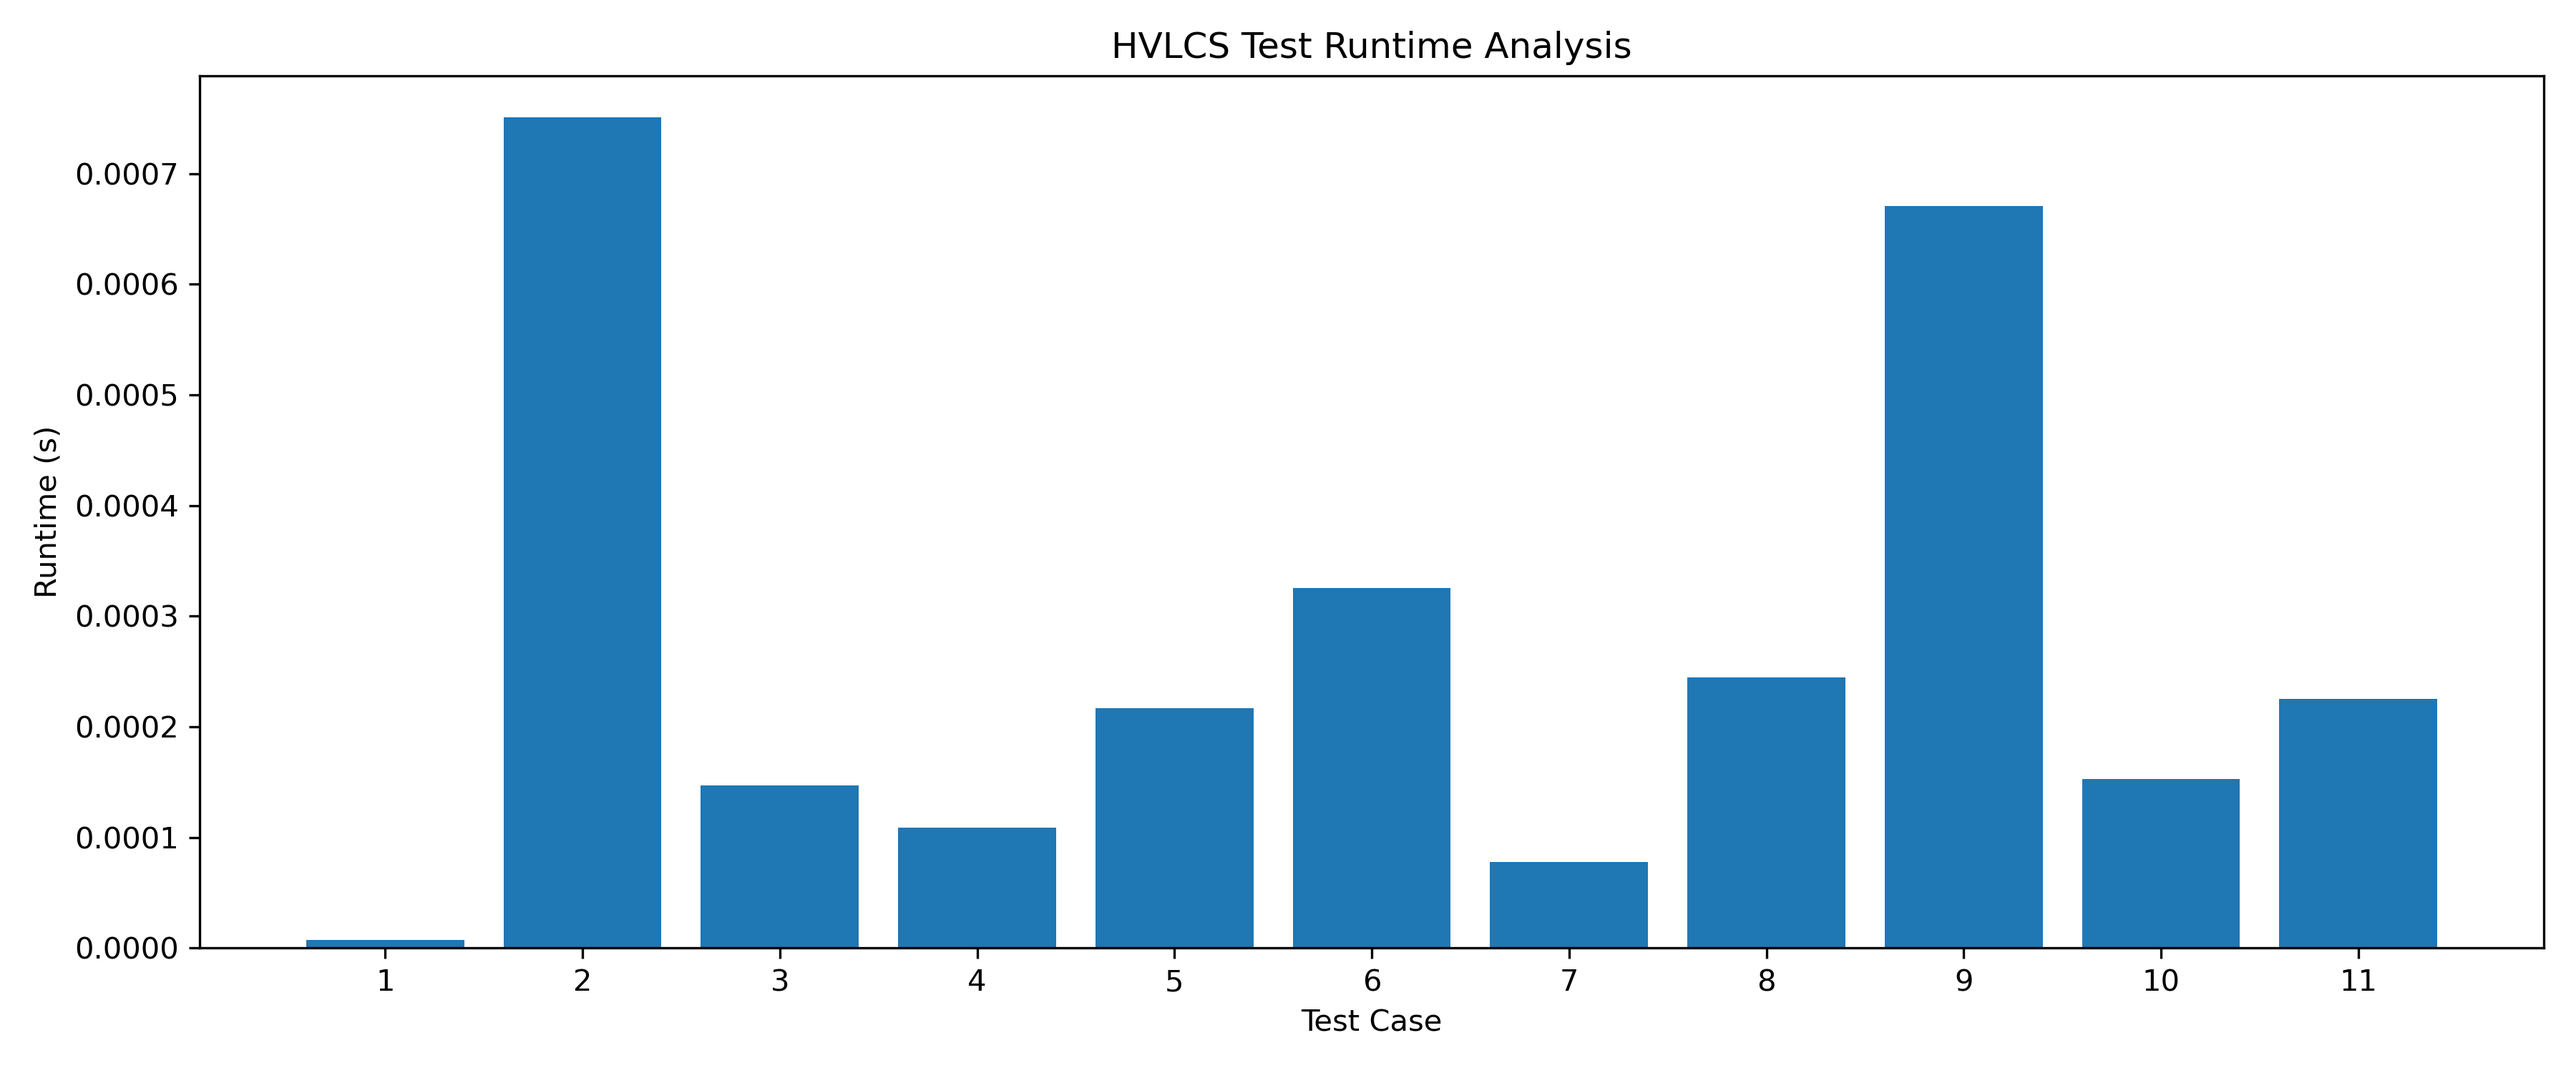
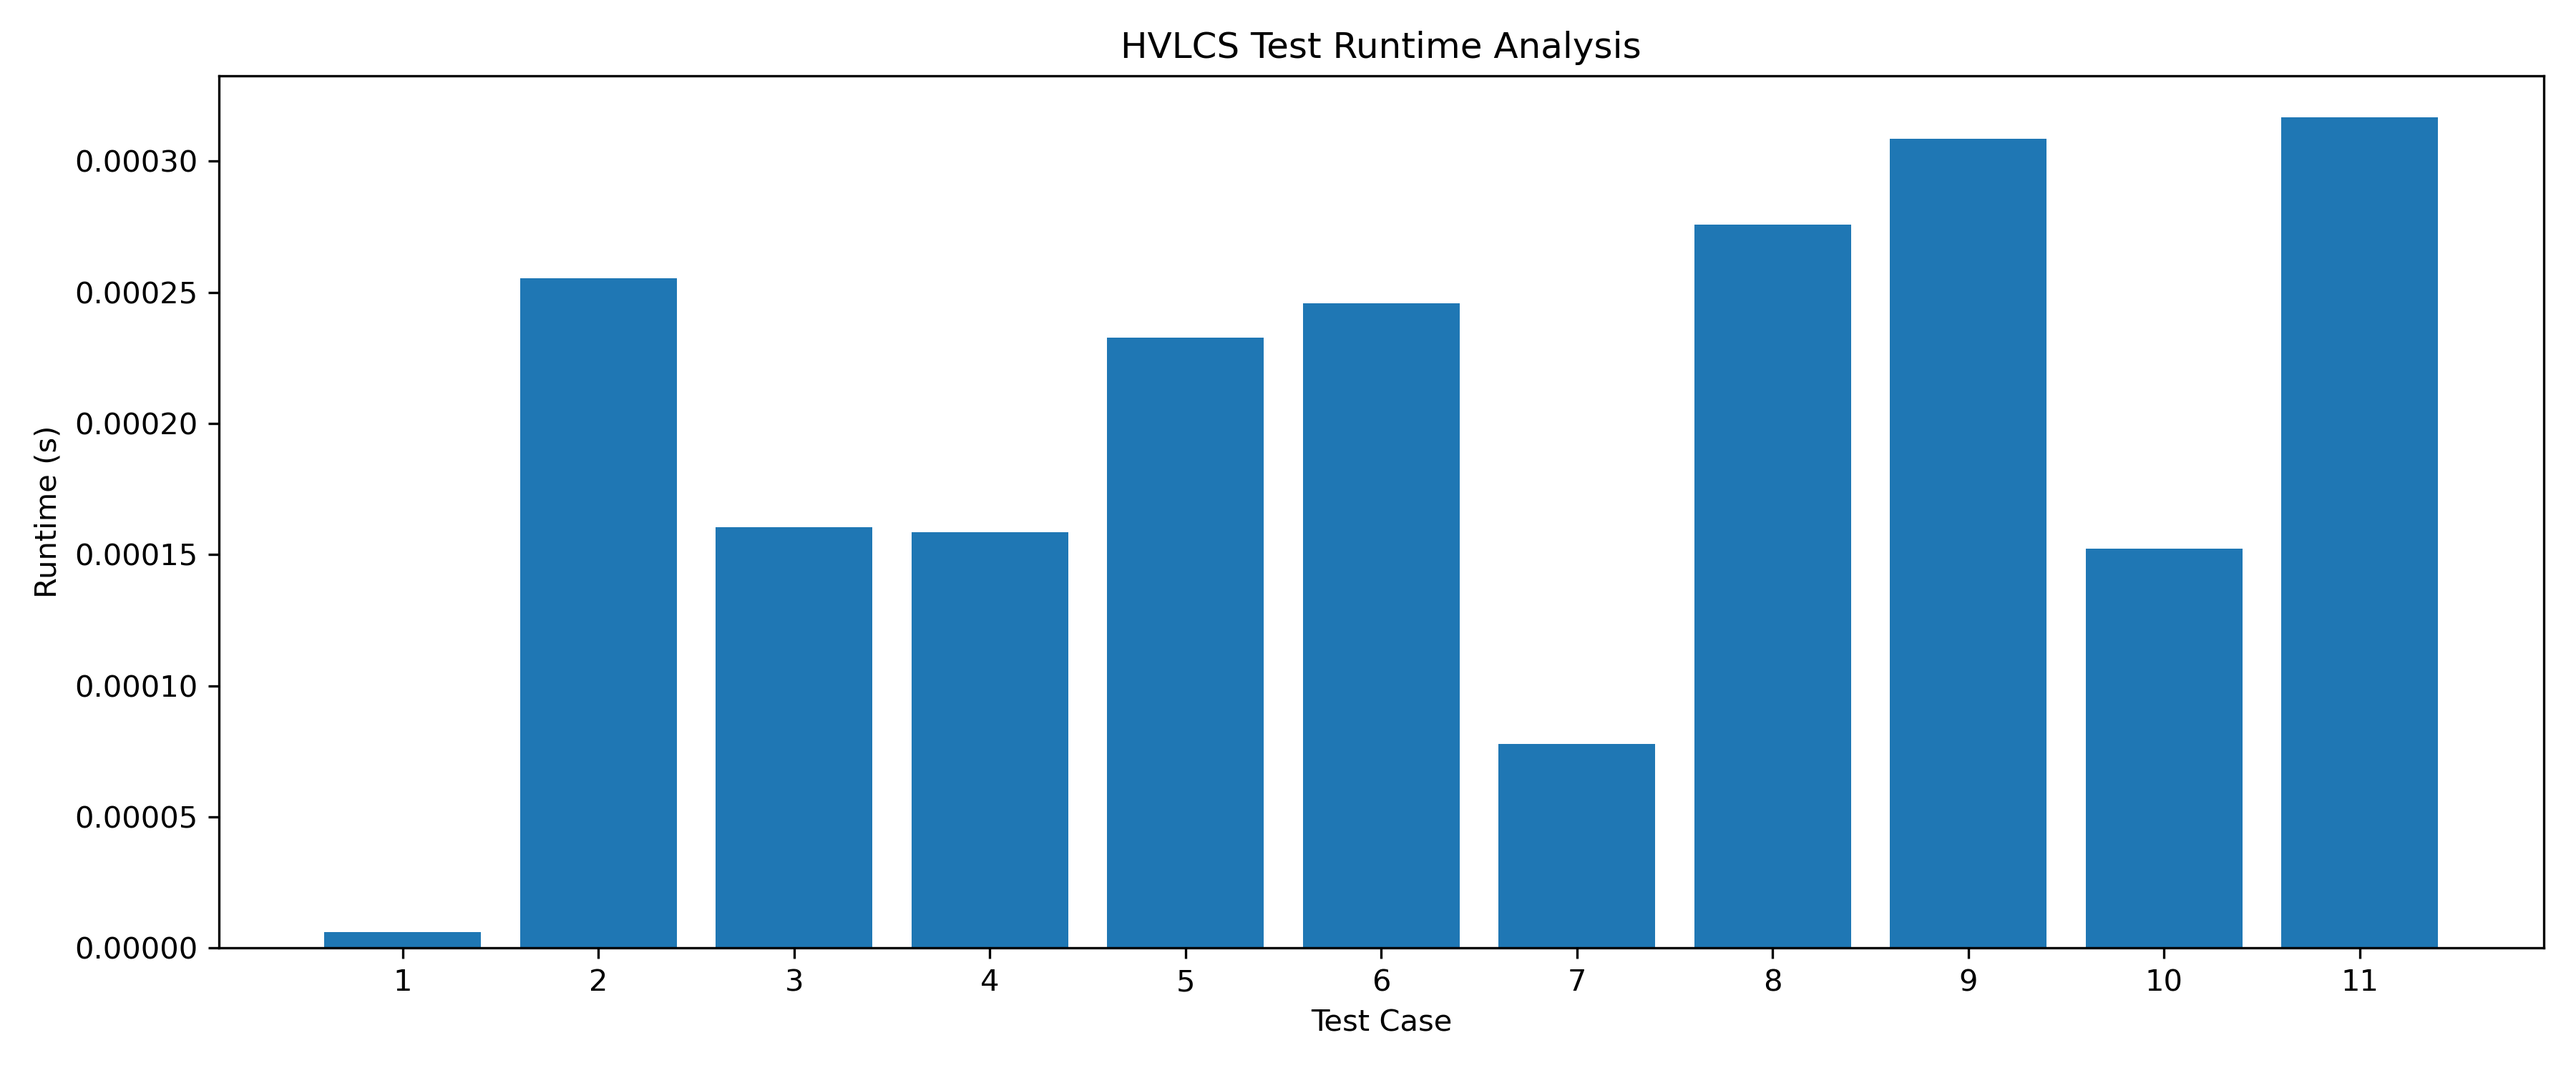
q1 + q3 answers in README, output files

diff --git a/README.md b/README.md
@@ -3,13 +3,13 @@ Priya Khatri - 24056337 James Hu - 78869080
 ## Repository Structure
 - src (source code directory)
   - hvlcs.py: Program with implementation of the Highest Value Longest Common Subsequence algorithm (uses recursion and memoization). Also contains the input parser and main functions.
-  - 
+  - empirical_comparison.py: Program for running all 11 input test cases and plotting the runtimes for Question 1. 
 - tests (test directory)
   - contains all the input files (both user generated and included).
   - Also contains the corresponding output files for each input file. 
  
 ## Getting Started
-Make sure you can run Python code in your environment.
+Make sure you can run Python code in your environment. To run the empirical comparison analysis, make sure to install the matplotlib library using pip or conda. 
 Clone the repository: `git clone https://github.com/priya2004k/Highest-Value-Longest-Common-Sequence.git`
 
 ## Input Specifications
@@ -42,10 +42,15 @@ Second line: one optimal subsequence achieving that value
 To Run HVLCS on an input file
 Move your input file into the input/ directory, then run:
 
-`python src/runner.py inputs/YOUR_INPUT_FILE.in`
+`python src/hvlcs.py inputs/YOUR_INPUT_FILE.in`
 
 If no input file is provided, the function will run on the default `test1.in` file. 
 
+To run the empirical analysis for Question 1, simply run: 
+`python src/empirical_comparison.py`
+
+## Question 1: 
+![Image of run time graph for all 11 input test cases](./runtimes.png)
 
 ## Question 2: Recurrence Equation
 
@@ -63,3 +68,17 @@ We can prove that this algorithm is optimal using proof by exchange. Assime that
 At any index i, j, if A[i-1] != B[j-1], OPT will make the choice to exclude one of the last characters from either A or B since both can't be used in the highest value common subsequence. Therefore our algorithm DP will come up with a solution that is equally good, if not better to OPT because it checks both subproblems (i-1, j) and (i, j-1) and takes the max of both. 
 Additionally at any index i, j, if A[i-1] == B[j-1] then the OPT algorithm can either choose to include the character at those indexes into the LCS or not. In this scenario DP will perform the same or better than OPT because DP explores both choices where it adds the character to the value count for LCS and also skips the character, and DP will take the max of those two choices. 
 So, we can replace OPT(i, j) with DP(i, j) and not decrease the perfomrance of the optimal algorithm. This means that our DP algorithm is optimal. 
+
+## Question 3
+```
+Let n = length of A, p = length of B, and v = values.
+for i in range(1, n + 1):
+  for j in range(1, p + 1):
+    if A[i] == B[j]:
+      dp[i][j] = dp[i - 1][j - 1] + v(A[i]) 
+    else:
+      dp[i][j] = max(dp[i - 1][j], dp[i][j - 1])
+return dp[n][p]
+
+```
+The runtime complexity of this algorithm is O(np) because there are two nested for loops. 
